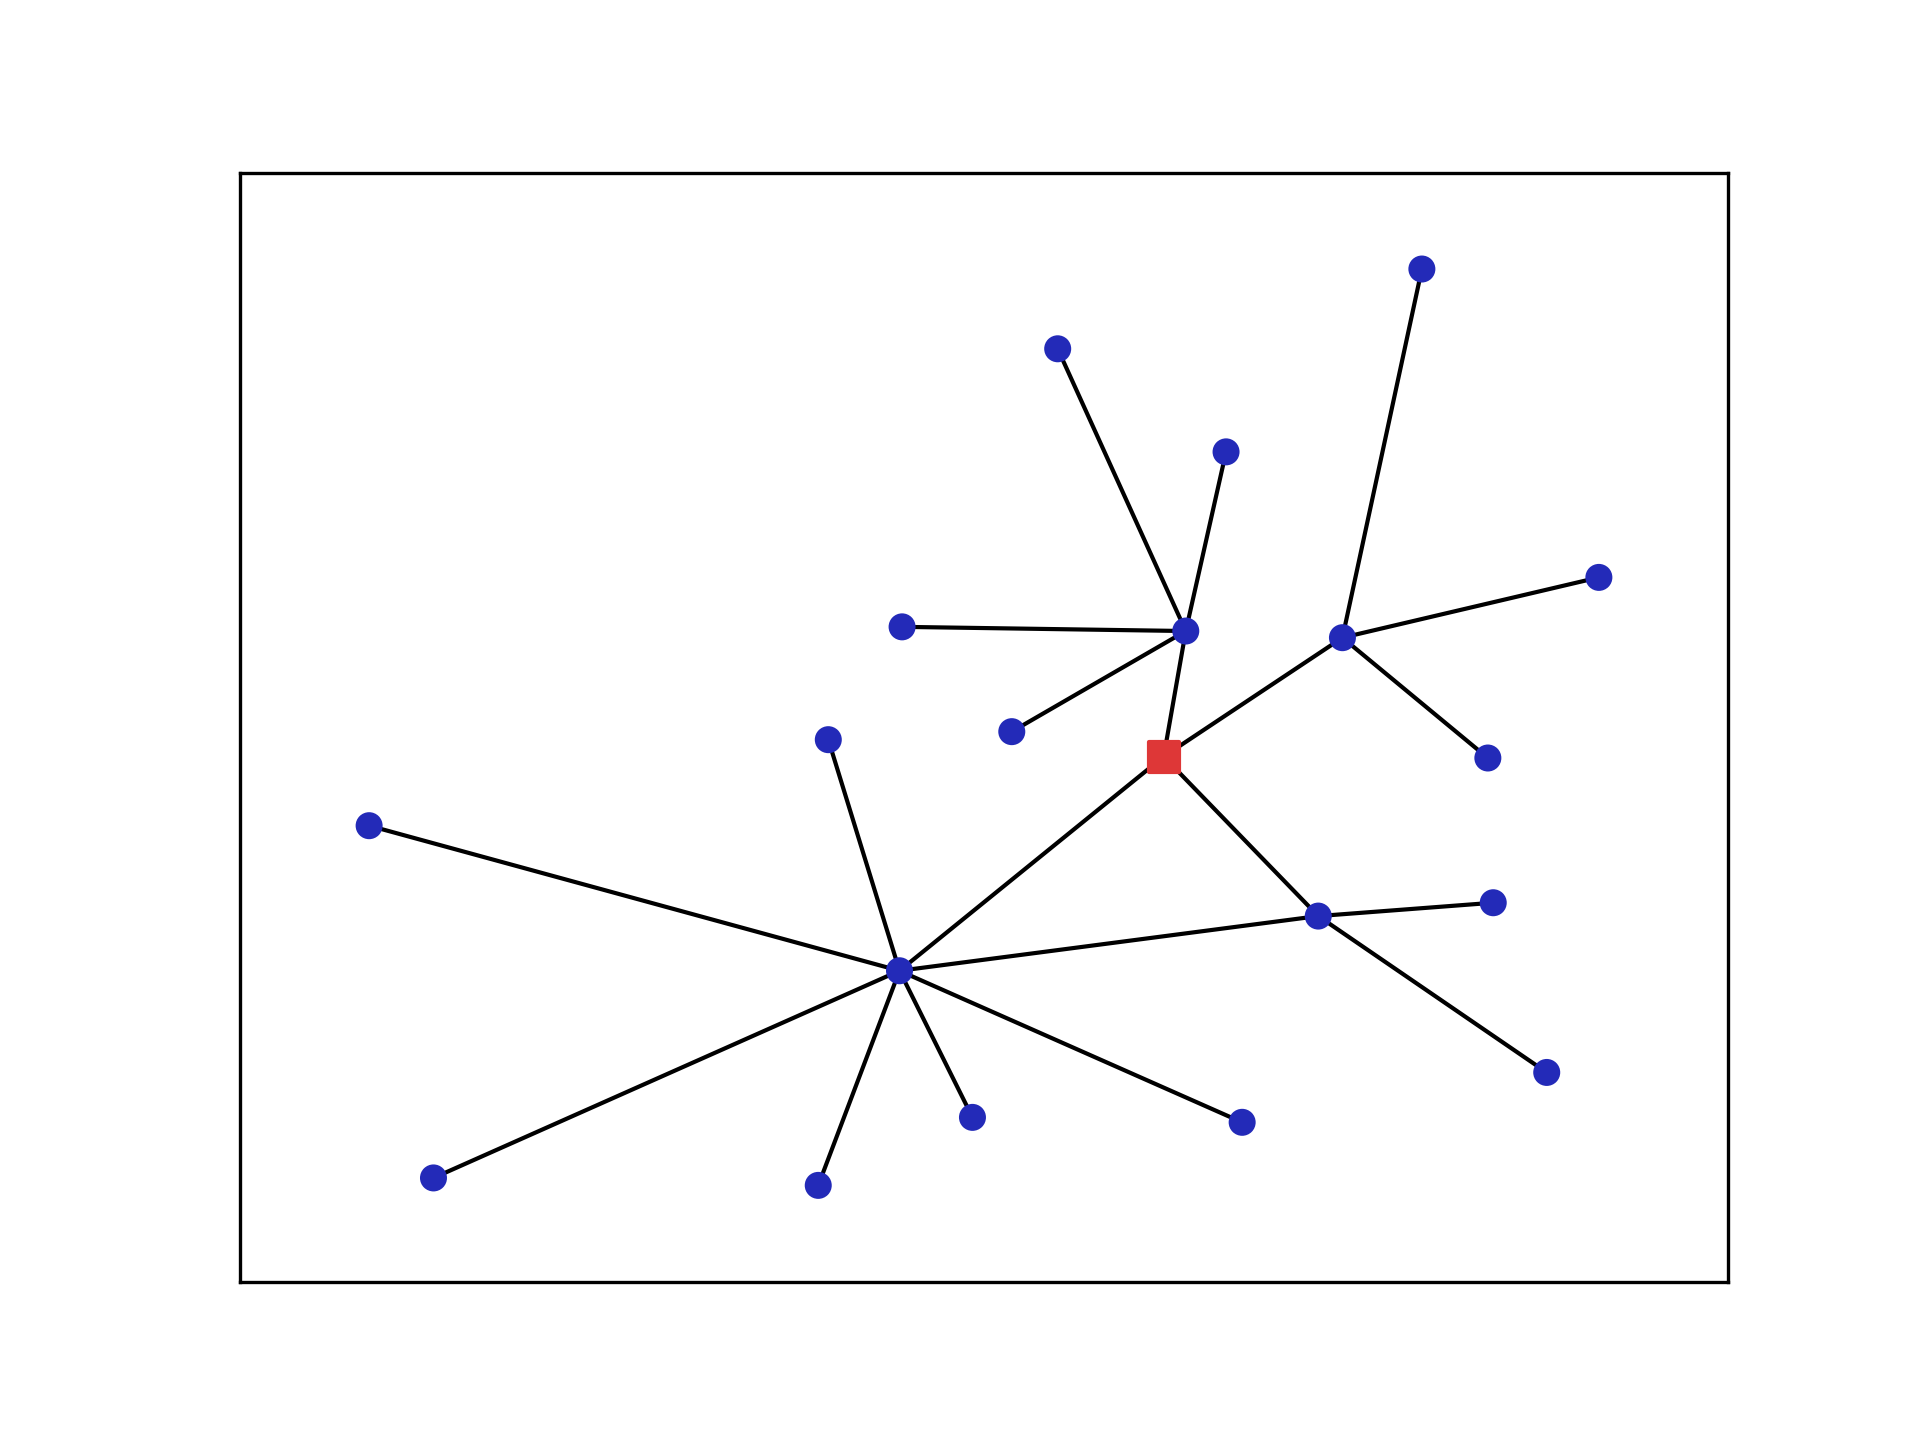
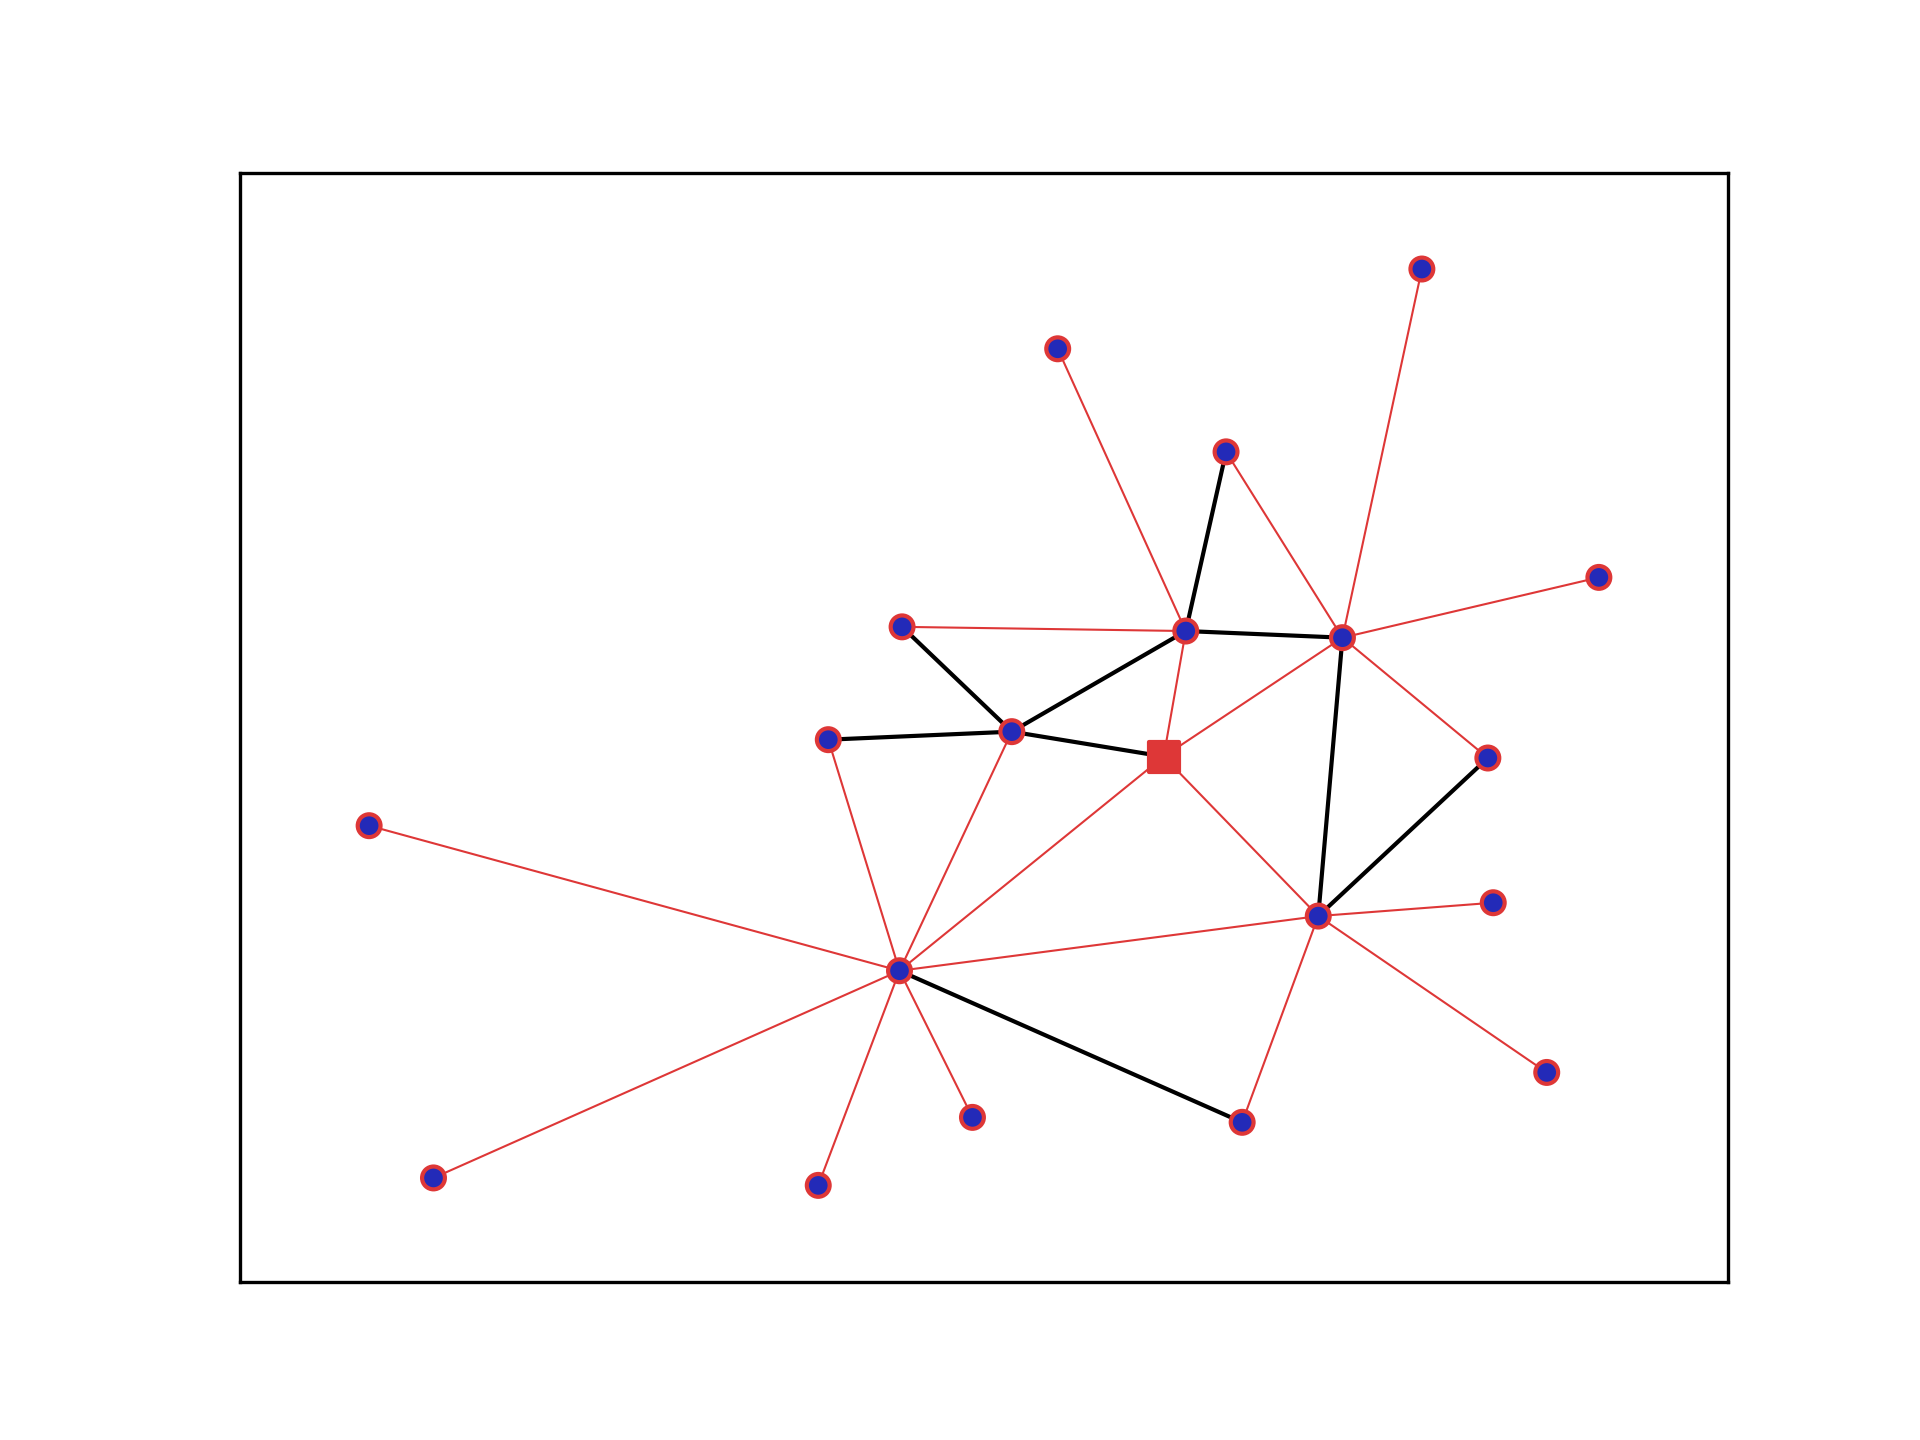
two in one frame

diff --git a/draw_graphs.py b/draw_graphs.py
@@ -1,5 +1,6 @@
 from ast import For
 from ctypes import sizeof
+from xmlrpc.client import Boolean
 import numpy as np
 import networkx as nx
 import matplotlib.pyplot as plt
@@ -10,18 +11,16 @@ from data_structures import OutputStructure
 
 
 
-def Draw_Picture(Input: InputStructure, Output: OutputStructure):
+def Draw_Picture(Input: InputStructure, Output: OutputStructure, WithOld: Boolean = False):
 
     CurrectFolder = os.path.dirname(os.path.abspath(__file__))
     GNNPICOUT = CurrectFolder + "/GNNPICOUT"
 
     if not os.path.isdir(GNNPICOUT):
         os.mkdir(GNNPICOUT)
-
     
     FNAMEO = GNNPICOUT + '/' + Input.Fname + '_O.png'
     FNAMEA = GNNPICOUT + '/' + Input.Fname + '_A.png'
-
 
     if os.path.isfile(FNAMEO):
         os.remove(FNAMEO)
@@ -29,34 +28,50 @@ def Draw_Picture(Input: InputStructure, Output: OutputStructure):
     if os.path.isfile(FNAMEA):
         os.remove(FNAMEA)
     
-    edgelistA = []
+    edgelistAs = []     #selected
+    edgelistAsc = []     #selected color
+    edgelistAsw = []     #selected color
+
+
     edgelistO = []
+
+    edge_colors= ["#737373","#000000","#de3737","#80d189","#ccbfbe","#ccbfbe","#ccbfbe"]
+
     for i in range(Input.n-1):
         for j in range(i+1, Input.n):
+
             if Output.X[i][j] > 0.5:
-                edgelistA.append((i,j))
+                edgelistAs.append((i,j))
+                edgelistAsc.append(edge_colors[2])
+                edgelistAsw.append(0.5)
+
+                
+            elif Input.A[i,j] > 0.5:
+                
+                edgelistAs.append((i,j))
+                edgelistAsc.append(edge_colors[1])
+                edgelistAsw.append(1)
 
             if Input.A[i,j] > 0.5:
                 edgelistO.append((i,j))
 
-    options = {
-        'node_color': 'blue',
-        'node_size': 100,
-        'width': 3,
-        'arrowstyle': '-|>',
-        'arrowsize': 12,
-    }
+
+    NodeE = set()
+    for i in range(Input.n-1):
+        for j in range(i+1, Input.n):
+            if Output.X[i][j] > 0.5:
+                NodeE.update(set([i]))
+                NodeE.update(set([j]))
+
 
     Positions = {}
     n = Input.n
     for x in range(Input.n):
         Positions[x]=(Input.Pos[x][0],Input.Pos[x][1])
-    
 
     node_colors= ["#232ab8","#de3737","#80d189","#80d189","#ccbfbe","#ccbfbe","#ccbfbe"]
     node_sizes = [30,50,7000,9000,11000,13000,15000]
     node_shapes = ['s', 'o']
-
 
     G = nx.Graph()
     G.add_nodes_from(Positions.keys())
@@ -64,18 +79,23 @@ def Draw_Picture(Input: InputStructure, Output: OutputStructure):
         G.nodes[a]['pos'] = p 
         if a == Input.sr:
             G.nodes[a]['color'] = node_colors[1]
+            G.nodes[a]['edgecolor'] = node_colors[1]
             G.nodes[a]['size'] = node_sizes[1]
             G.nodes[a]['shape'] = node_shapes[0]
-        else:
+        elif a in NodeE:
             G.nodes[a]['color'] = node_colors[0]
             G.nodes[a]['size'] = node_sizes[0]
+            G.nodes[a]['edgecolor'] = node_colors[1]
+            G.nodes[a]['shape'] = node_shapes[1]
+        else:
+            G.nodes[a]['color'] = node_colors[2]
+            G.nodes[a]['size'] = node_sizes[0]
+            G.nodes[a]['edgecolor'] = node_colors[2]
             G.nodes[a]['shape'] = node_shapes[1]
 
-
-    G.add_edges_from(edgelistA)
-
     #nx.draw(G, Positions)
-    nx.draw_networkx_edges(G,Positions)
+    G.add_edges_from(edgelistAs)
+    nx.draw_networkx_edges(G, Positions, edge_color=edgelistAsc, width= edgelistAsw)
 
     for shape in set(node_shapes):
         # the nodes with the desired shapes
@@ -84,11 +104,11 @@ def Draw_Picture(Input: InputStructure, Output: OutputStructure):
                             nodelist = node_list,
                             node_size = [G.nodes[node]['size'] for node in node_list],
                             node_color= [G.nodes[node]['color'] for node in node_list],
+                            edgecolors= [G.nodes[node]['edgecolor'] for node in node_list],
                             node_shape = shape)
 
     plt.savefig(FNAMEA, dpi=300)
     plt.clf()
-
 
     G = nx.Graph()
     G.add_nodes_from(Positions.keys())

diff --git a/IsolatingData.py b/IsolatingData.py
@@ -101,7 +101,7 @@ def Write_Draw(Input: InputStructure, Output: OutputStructure):
     if not os.path.isdir(GNNPICOUT):
         os.mkdir(GNNPICOUT)
 
-    FNAMEI = GNNPICOUT + '/' + Input.Fname + '_I.png'
+    FNAMEI = GNNPICOUT + '/' + Input.Fname + '_X.png'
     FNAMED = GNNINPUT + '/' + str(int(Input.Fname)+70000) + '.txt'
 
 
@@ -111,7 +111,6 @@ def Write_Draw(Input: InputStructure, Output: OutputStructure):
     if os.path.isfile(FNAMED):
         os.remove(FNAMED)
     
-
     edgelistO = []
     edgelistC = []
     
@@ -141,7 +140,7 @@ def Write_Draw(Input: InputStructure, Output: OutputStructure):
         Positions[x]=(Input.Pos[x][0],Input.Pos[x][1])
     
 
-    node_colors= ["#232ab8","#de3737","#a9b0aa","#80d189","#ccbfbe","#ccbfbe","#ccbfbe"]
+    node_colors= ["#232ab8","#c26b29","#a9b0aa","#80d189","#ccbfbe","#ccbfbe","#ccbfbe"]
     node_sizes = [30,50,7000,9000,11000,13000,15000]
     node_shapes = ['s', 'o']
 
@@ -259,12 +258,10 @@ def Write_Draw(Input: InputStructure, Output: OutputStructure):
     out.close()
 
 
-
-
 def ExtactingNodes():
     
-    St = 900001
-    Ed = 900002
+    St = 254
+    Ed = 256
 
     for x in range(St, Ed):
 
@@ -272,8 +269,7 @@ def ExtactingNodes():
 
         Draw_original(InputDt)
 
-
-        exit(33)
+        
         cnt = 0
         for x in range(InputDt.n):
             for y in range(InputDt.n):

diff --git a/main.py b/main.py
@@ -13,6 +13,9 @@ def RunMainFuntions():
     for x in range(St, Ed):
 
         InputDt = read_data(x)
+        #InputDt.A = InputDt.A @ InputDt.A
+        #InputDt.recalculate()
+
         #InputDt.Lmt = int(InputDt.Lmt*0.2)
 
         print('InputDt.Lmt:     %d'%InputDt.Lmt)
@@ -34,15 +37,15 @@ def RunWithOld():
     for x in range(St, Ed):
         InputDt = read_data(x, INCLUDE_OLD = True)
 
-        InputDt.Lmt = int(InputDt.Lmt*0.70)
-
+        InputDt.Lmt = int(InputDt.Lmt * 0.5)
+        InputDt.Lmt = 20*2
         #InputDt.show()
         ResultDt = Gurobi_Solve(InputDt)
         print(ResultDt.Time)
-        
+        print("Problem solved")
         #Save data and result
         Write_Result(InputDt, ResultDt)
         Draw_Picture(InputDt, ResultDt)
 
 if __name__ == '__main__':
-    RunMainFuntions()
+    RunWithOld()

diff --git a/Test/test_MatrixMultiplication.py b/Test/test_MatrixMultiplication.py
@@ -1,11 +1,11 @@
 import numpy as np
 
 
-A = np.full((4,4), 0, dtype = np.float_)
+A = np.full((3,3), 0, dtype = np.float_)
 
 
-#   0->1->2->3
-#   0->2->3
+#   0->1->2
+#   0->2
 
 x = 0
 y = 1
@@ -21,26 +21,8 @@ A[x][y] = 1
 A[y][x] = 1
 
 
-x = 2
-y = 3
+B = A@A
+C = B@B
+print(B)
+print(C)
 
-A[x][y] = 1
-A[y][x] = 1
-
-
-
-x = 0
-y = 2
-
-A[x][y] = 1
-A[y][x] = 1
-
-
-x = 2
-y = 3
-
-A[x][y] = 1
-A[y][x] = 1
-
-
-print(A@A)
